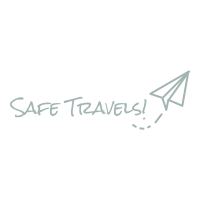
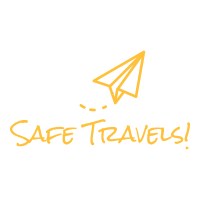
fixed mobile compatability issued with profile menu, changes color scheme for page

Changed region(s): [[0.03, 0.24, 0.96, 0.75], [0.75, 0.33, 0.96, 0.57]]

diff --git a/index.html b/index.html
@@ -12,10 +12,10 @@
 <body>
 <!--Navbar-->
     <navbar>
-        <nav class="navbar is-dark" role="navigation" aria-label="main navigation">
+        <nav class="navbar" role="navigation" aria-label="main navigation">
             <div class="navbar-brand">
               <figure class="image is-128x128">
-              <img src="./images/SAFE-TRAVELS.png">
+              <img src="./images/SAFE-TRAVELS2.png">
               </figure>
           
               <a role="button" class="navbar-burger" data-target="navMenu" aria-label="menu" aria-expanded="false">
@@ -27,11 +27,11 @@
           
             <div id="navbarBasicExample" class="navbar-menu">
               <div class="navbar-end mr-6">
-                <a href="#what-we-offer" style="color:#a3b5b2" id= "nav-about" class="navbar-item mr-6 is-size-5">
+                <a href="#what-we-offer" style="color:#ffc13b" id= "nav-about" class="navbar-item mr-6 is-size-5">
                   What We Offer
                 </a>
                
-                <a href="#search-city" style="color:#a3b5b2" id= "nav-search" class="navbar-item is-size-5">
+                <a href="#search-city" style="color:#ffc13b" id= "nav-search" class="navbar-item is-size-5">
                   Search
                 </a>
               </div>             
@@ -62,7 +62,7 @@
 <div id="main-modal" class="modal is-full-width">
   <div class="modal-background"></div>
   <div class="modal-card">
-    <header class="box modal-card-head has-background-grey-lighter">
+    <header class="box modal-card-head has-background-grey">
       <span class="modal-card-title has-text-centered has-text-grey-darker">
         <span id='city-name'></span>
       <button class="delete is-pulled-right" aria-label="close"></button>
@@ -146,31 +146,34 @@
   <button class="modal-close is-large" aria-label="close"></button>
 </div>
 <!--FOOTER-->
-    <section class="hero is-dark">
+    <section class="hero">
+      <nav id="menu">
+        <label for="tm" id="toggle-menu">Creator Profiles <span class="drop-icon">▾</span></label>
+
+<!--personal links-->
+        <input type="checkbox" id="tm">
+        <ul class="main-menu clearfix">
+          <a class="navbar-item" href="https://cocobeware83.github.io/coryneel/"target="_blank">
+            Cory Neel
+          </a>
+          <a class="navbar-item" href="https://https://daylan-lewandowski.github.io/" target="_blank">
+            Daylan Lewandowski
+          </a>
+          <a class="navbar-item" href="https://emarbloe.github.io/personal_portfolio/"target="_blank">
+            Ephraim Marbloe
+          </a>
+          <a class="navbar-item" href="https://jnunez1229.github.io/juan-nunez/"target="_blank">
+            Juan Nunez
+          </a>
+        </ul>
+      </nav>
+      
       <div class="hero-body">
-        <p style= 'color:#a3b5b2' class="title has-text-centered foot">
+        <p style= 'color:#ffc13b' class="title has-text-centered foot">
           Thanks for visiting Safe Travels!
         </p>
       </div>
-      <div class="dropup">
-        <button class="dropbtn">Creator Profiles</button>
-        <div class="dropup-content">
-              <a class="navbar-item" href="https://cocobeware83.github.io/coryneel/"target="_blank">
-                Cory Neel
-              </a>
-              <a class="navbar-item" href="https://https://daylan-lewandowski.github.io/" target="_blank">
-                Daylan Lewandowski
-              </a>
-              <a class="navbar-item" href="https://emarbloe.github.io/personal_portfolio/"target="_blank">
-                Ephraim Marbloe
-              </a>
-              <a class="navbar-item" href="https://jnunez1229.github.io/juan-nunez/"target="_blank">
-                Juan Nunez
-              </a> 
-            
-                    
-            </div>
-          </div>
+      
       
     </section>
             

diff --git a/CSS/style.css b/CSS/style.css
@@ -6,6 +6,12 @@ body {
     padding: 10px;
 }
 
+.navbar {
+  background-color: #1e3d59;
+}
+.hero-body {
+  background-color: #1e3d59;
+}
 /*search bar styling*/
 #searchbar {
     max-width: 50%;
@@ -15,13 +21,14 @@ input{
  }
 
  .button {
-    color: whitesmoke; 
-    background-color:#363533;
+    color: #ffc13b; 
+    background-color:#1e3d59;
     border: none;
  }
  .button:hover{
   background-color: #706f6c;   
  }
+ 
 /*styling for UV index conditions */
 .favorable {
     color: green; 
@@ -47,52 +54,65 @@ input{
     width:30%;
 }
 
-.dropbtn {
-    background-color: #353836;
-    color: #a3b5b2;
-    padding: 16px;
-    font-size: 16px;
-    border: none;
-  }
-  
 
-  /* Styling for Profile Drop Up menu */
-  .dropup {
-    position: relative;
-    display: inline-block;
+  
+  /*styling for portfolio links bar */
+  #menu ul {
+    margin: 0;
+    padding: 0;
   }
   
-  /* Dropup content (Hidden by Default) */
-  .dropup-content {
+  #menu .main-menu {
     display: none;
-    position: absolute;
-    bottom: 50px;
-    background-color: #828581;
-    min-width: 160px;
-    box-shadow: 0px 8px 16px 0px rgba(0,0,0,0.2);
-    z-index: 1;
   }
   
-  /* Links inside the dropup */
-  .dropup-content a {
-    color: black;
-    padding: 12px 16px;
-    text-decoration: none;
+  #tm:checked + .main-menu {
     display: block;
   }
   
-  /* Change color of dropup links on hover */
-  .dropup-content a:hover {background-color: #ddd}
+  #menu input[type="checkbox"], 
+  #menu ul span.drop-icon {
+    display: none;
+  }
   
-  /* Show the dropup menu on hover */
-  .dropup:hover .dropup-content {
+  #menu li, 
+  #toggle-menu, 
+   {
+    border-style: solid;
+    border-color: rgba(0, 0, 0, .05);
+  }
+  
+  #menu li, 
+  #toggle-menu {
+    border-width: 0 0 1px;
+  }
+  
+  #menu li, 
+  #toggle-menu, 
+  #menu a {
+    position: relative;
     display: block;
+    color: #1e3d59;
+    text-shadow: 1px 1px 0 rgba(0, 0, 0, .125);
   }
   
-  /* Change the background color of the dropup button when the dropup content is shown */
-  .dropup:hover .dropbtn {
-    background-color: #2980B9;
+  #menu, 
+  #toggle-menu {
+    background-color: #ffc13b;
   }
+  
+  #toggle-menu, 
+  #menu a {
+    padding: 1em 1.5em;
+  }
+  
+  #menu a {
+    transition: all .125s ease-in-out;
+    -webkit-transition: all .125s ease-in-out;
+  }
+  
+  #
+
 @media screen and (max-width: 1050px) {
     .forecastbox {
        width: 45%;
@@ -100,7 +120,9 @@ input{
     .forecastbox p {
         font-size: 15px;
     }
-  
+
  }
+
+ 
 
 
